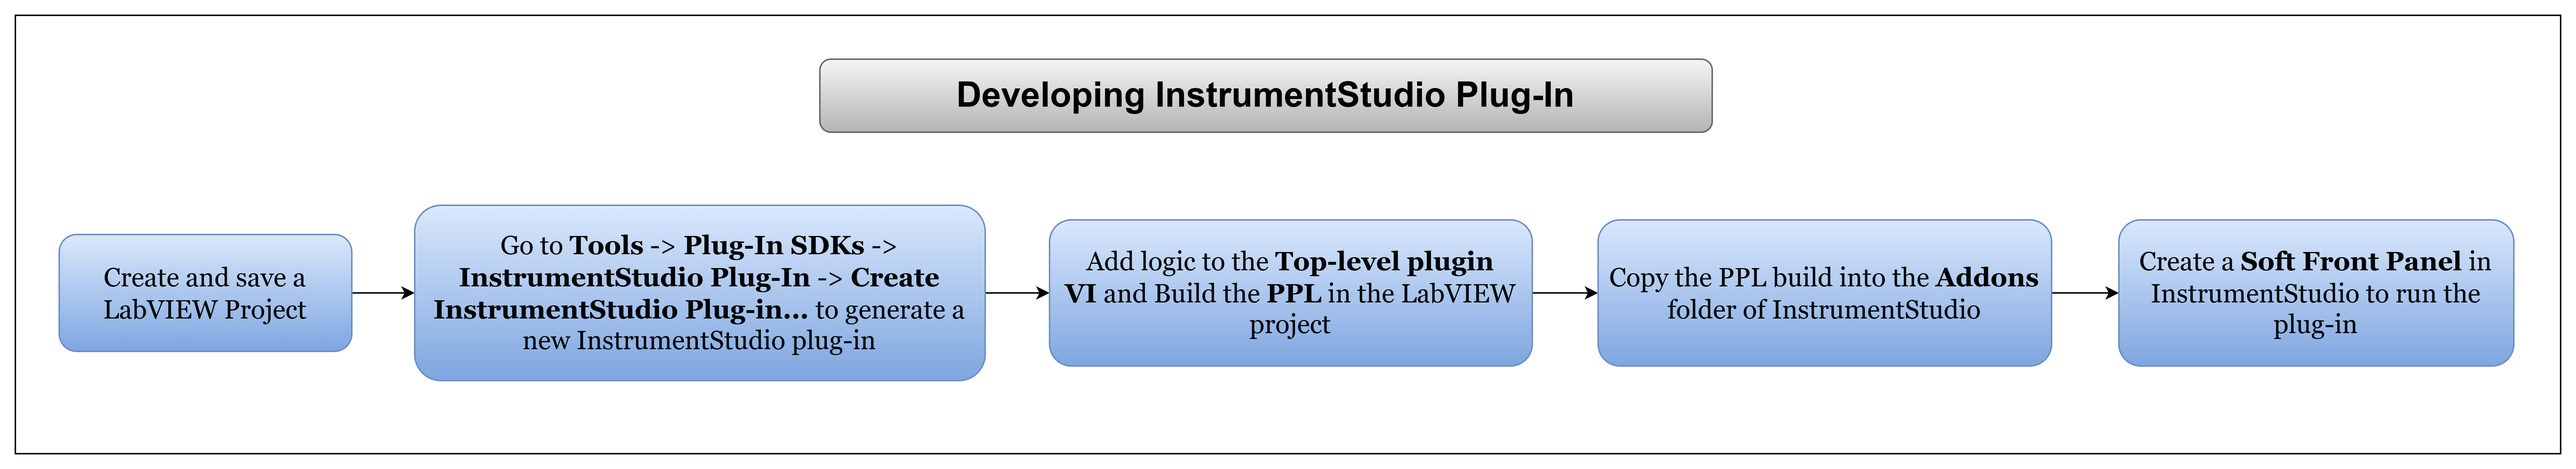
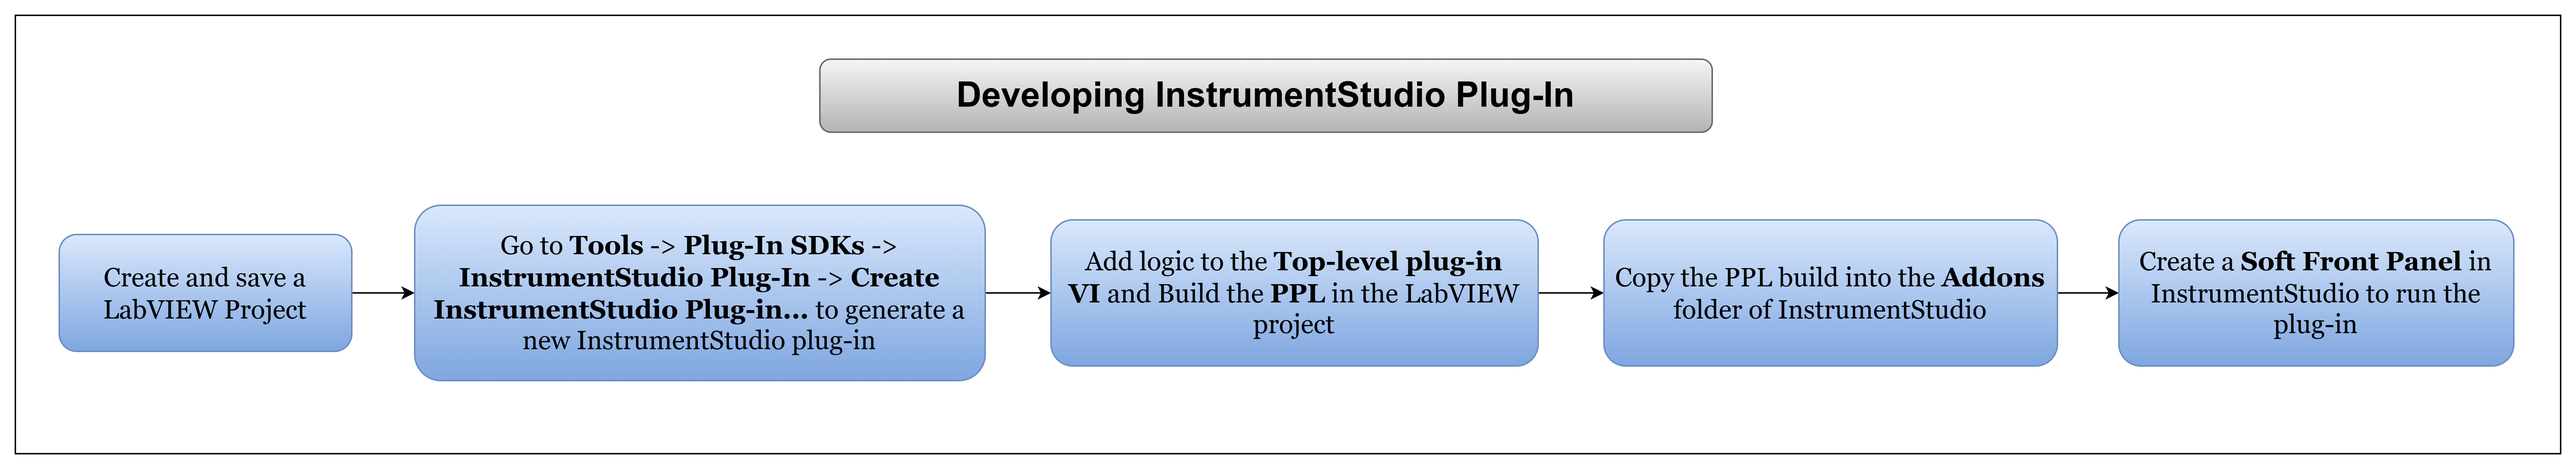
docs: update some instructions and workflow image

Changed region(s): [[0.406, 0.4673, 0.812, 0.7788], [0.4685, 0.6854, 0.5309, 0.7165], [0.7808, 0.4673, 0.812, 0.4984]]

diff --git a/labview/docs/InstrumentStudio Plug-In Generator Guide.md b/labview/docs/InstrumentStudio Plug-In Generator Guide.md
@@ -42,7 +42,8 @@ NI Packages Dependency | Version Required
 - Download the `InstrumentStudio Plug-In SDK` and `InstrumentStudio Plug-In Generator` packages from
   the latest release assets.
 
-- Install the `InstrumentStudio Plug-In SDK`, followed by the `InstrumentStudio Plug-In Generator`.
+- Install the `InstrumentStudio Plug-In SDK` package, followed by the `InstrumentStudio Plug-In
+  Generator` package.
 
 ## Developing a LabVIEW InstrumentStudio Plug-In
 
@@ -54,7 +55,8 @@ NI Packages Dependency | Version Required
 
       ![Create InstrumentStudio Plug-In](./images/InstrumentStudio%20Plug-In%20Generator%20Guide/Create%20InstrumentStudio%20Plug-In.png)
 
-   - This will create a new InstrumentStudio plug-in library in the project.
+   - This will create a new InstrumentStudio plug-in library and a PPL build specification for the
+     plug-in in the project.
 
       ![InstrumentStudio Plug-In Library](./images/InstrumentStudio%20Plug-In%20Generator%20Guide/InstrumentStudio%20Plug-In%20Library.png)
 
@@ -90,9 +92,9 @@ document.
 
 ## Using a LabVIEW InstrumentStudio plug-in in InstrumentStudio
 
-1. Open InstrumentStudio and click `Manual Layout`.
-2. The InstrumentStudio plug-in will be listed under the Add-Ons category within the group specified
-   in the `.gplugindata` file.
+1. Open InstrumentStudio and click `Manual Layout` to open the Edit Layout dialog.
+2. In the dialog, the InstrumentStudio plug-in will be listed under the Add-Ons category within the
+   group specified in the `.gplugindata` file.
 3. Choose the desired plug-in and create a large panel.
   
    ![Edit Layout](./images/InstrumentStudio%20Plug-In%20Generator%20Guide/InstrumentStudio%20Edit%20Layout.png)
